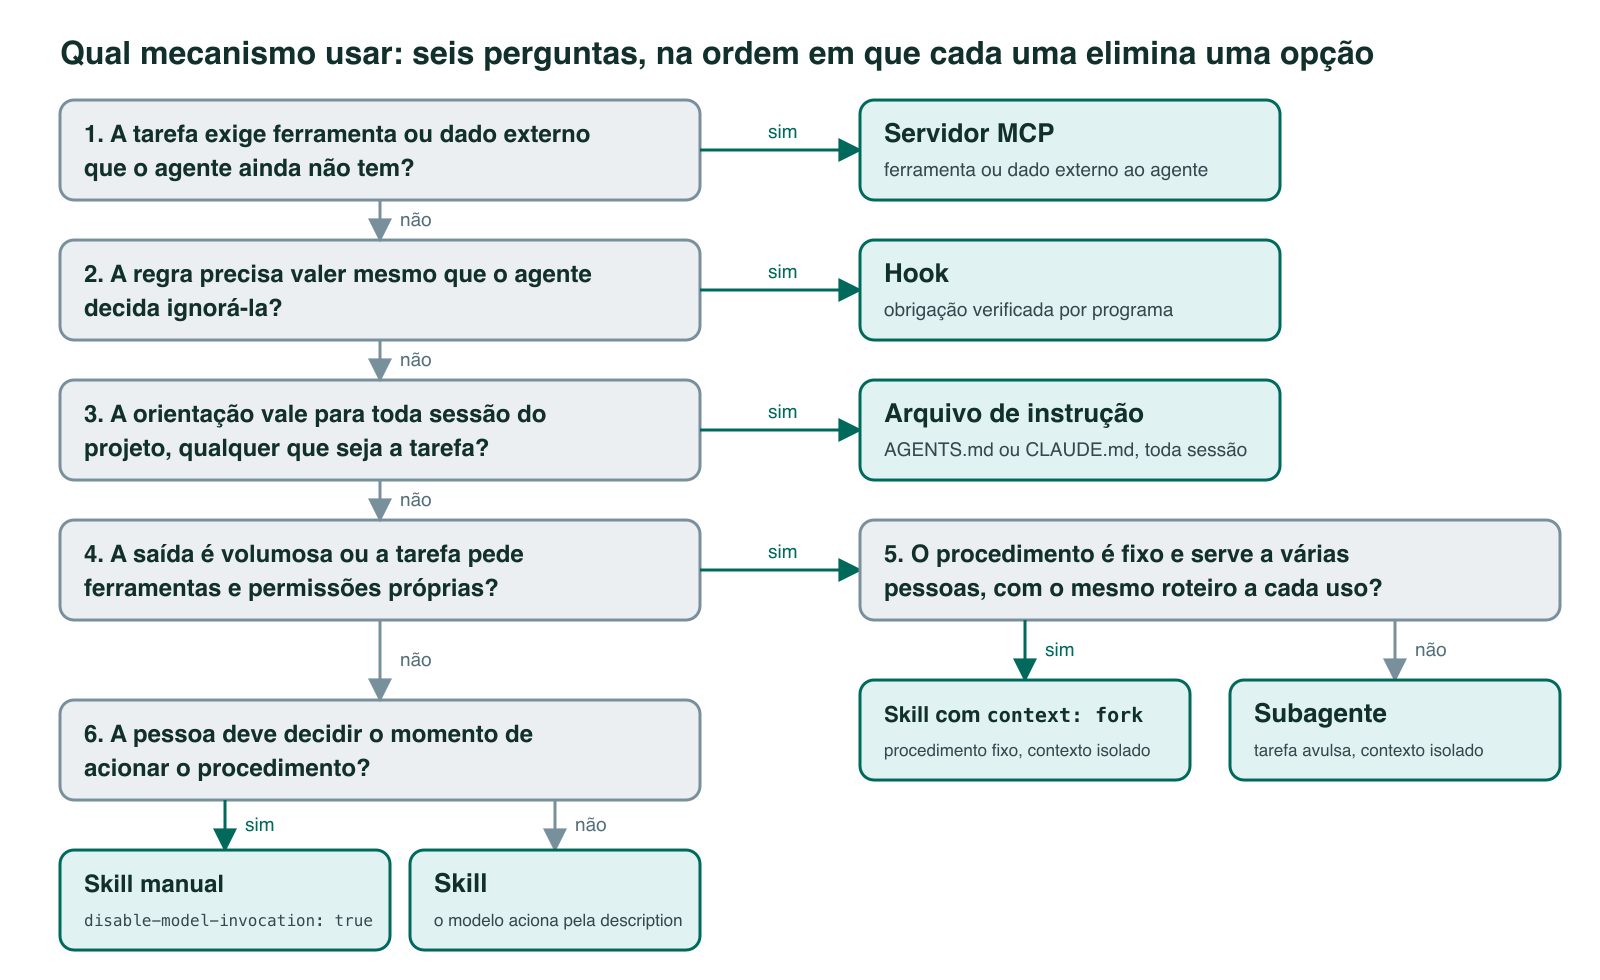
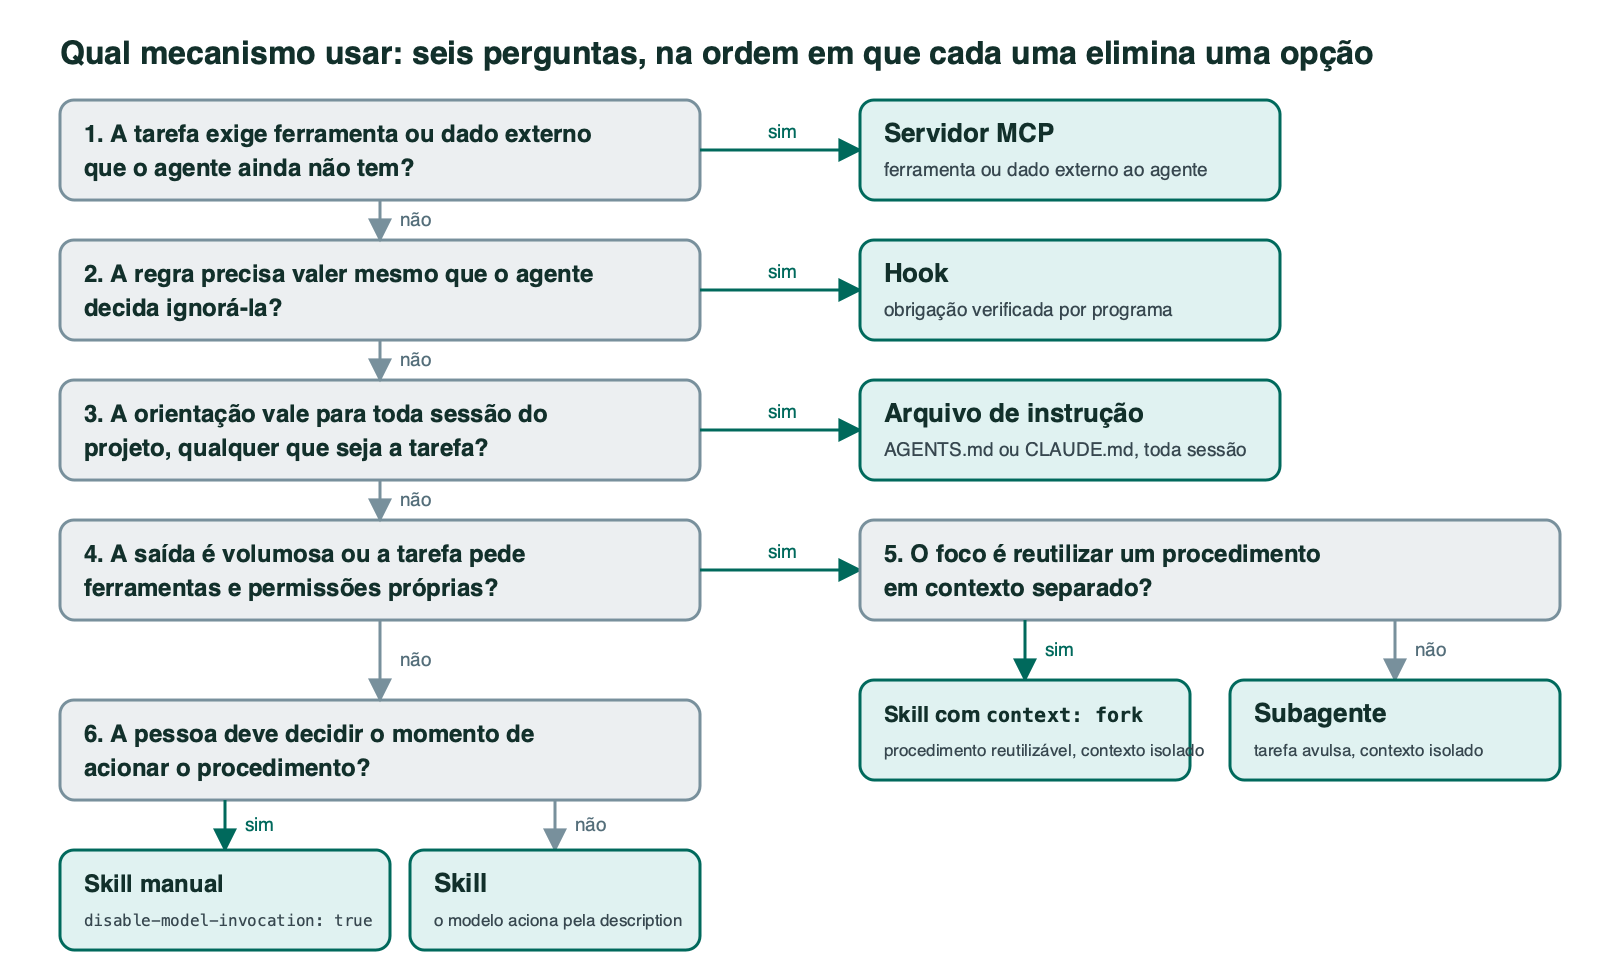
Esclarece skill com fork e subagente na sessão 8

diff --git a/docs/sessao-08-skills-e-agentes/escolher-o-mecanismo.md b/docs/sessao-08-skills-e-agentes/escolher-o-mecanismo.md
@@ -2,6 +2,56 @@
 
 Um agente de codificação oferece seis mecanismos para guardar uma instrução, um procedimento ou uma restrição: o arquivo de instrução, a skill (um procedimento reutilizável escrito em Markdown), o subagente (um agente auxiliar com janela de contexto própria), a skill executada em contexto isolado com `context: fork`, o hook e o servidor MCP. Esta página reúne os critérios da escolha, compara skill, subagente e agente principal dimensão por dimensão e lista os antipadrões. Ela preenche, na [ficha de requisitos](index.md#a-ficha-de-requisitos), a linha "Mecanismo".
 
+## Skill com fork ou subagente: qual é a diferença?
+
+Uma **skill** guarda um procedimento reutilizável: o que fazer, em que ordem e como entregar o resultado. Um **subagente personalizado** configura um especialista: seu papel, suas instruções e, quando necessário, suas ferramentas e seu modelo.
+
+A skill pode rodar na conversa principal ou em um subagente. Com `context: fork`, o Claude Code inicia um subagente em contexto separado e entrega a ele as instruções da skill. Por isso, os dois caminhos usam um subagente; a diferença é se o ponto de partida é **um procedimento a executar** ou **um especialista para receber uma tarefa**.
+
+### Exemplo: analisar uma reunião
+
+A equipe quer identificar tarefas e riscos numa transcrição. Ela cria a skill `.claude/skills/analisar-reuniao/SKILL.md`:
+
+```markdown
+---
+name: analisar-reuniao
+description: Identifica tarefas e riscos em transcrições de reunião.
+context: fork
+agent: general-purpose
+---
+Leia a transcrição indicada em $ARGUMENTS.
+Liste tarefas e riscos, cite os trechos que sustentam cada item e marque
+responsáveis ou prazos ausentes como "A confirmar".
+```
+
+A chamada `/analisar-reuniao reuniao.md` envia a receita e o caminho da transcrição ao subagente. Ele executa o procedimento em sua própria janela e devolve o resultado à conversa principal. O mesmo procedimento pode ser usado com outras transcrições.
+
+Agora a equipe quer um **revisor** que receba diferentes pedidos: conferir um relatório, verificar uma correção ou comparar versões. Ela define `.claude/agents/revisor-reuniao.md`:
+
+```markdown
+---
+name: revisor-reuniao
+description: Revisa relatórios de reunião em relação à transcrição.
+tools: Read, Grep, Glob
+---
+Você revisa relatórios de reunião. Compare os documentos indicados,
+aponte omissões e informações sem evidência e não edite arquivos.
+```
+
+A pessoa pode pedir: “Use o revisor-reuniao para comparar `relatorio.md` com `reuniao.md`”. O agente principal delega esse pedido ao revisor, que trabalha em contexto separado e devolve seus achados. Em outro pedido, o mesmo revisor pode conferir se as correções resolveram os problemas.
+
+| Pergunta | Skill com `context: fork` | Subagente personalizado |
+|---|---|---|
+| O que fica definido? | O procedimento de análise | O papel e a configuração do especialista |
+| O que recebe em cada uso? | Os dados necessários ao procedimento, como o caminho da transcrição | Uma tarefa específica, como revisar ou comparar documentos |
+| Quem executa? | Um subagente que recebe o conteúdo da skill | O subagente definido no arquivo de agente |
+| Onde executa? | Em contexto separado | Em contexto separado |
+| O que volta à conversa? | O resultado da execução | O resultado da tarefa delegada |
+
+Escolha uma **skill com fork** quando quiser repetir um procedimento e manter o trabalho intermediário fora da conversa. Escolha um **subagente personalizado** quando quiser reutilizar um especialista, com ferramentas ou modelo próprios, para diferentes tarefas. Isso é uma orientação, não uma fronteira rígida: uma skill pode deixar decisões em aberto e um subagente pode seguir passos fixos.
+
+A equipe também pode usar os dois juntos: a skill gera o relatório e o subagente revisor compara o resultado com a transcrição. Em qualquer dos casos, informe os caminhos e o contexto necessários no pedido: o subagente não recebe automaticamente o histórico da conversa. Contexto separado não garante acesso somente de leitura; para isso, configure ferramentas e permissões, como `tools: Read, Grep, Glob` no exemplo do revisor.
+
 ## A árvore de seis perguntas
 
 A escolha entre os seis mecanismos segue seis perguntas, apresentadas em ordem na figura, e cada pergunta elimina uma opção antes de a seguinte ser feita.
@@ -16,7 +66,7 @@ A tabela seguinte explica cada pergunta e o que a resposta elimina.
 | 2. A regra precisa valer mesmo que o agente decida ignorá-la? | Hook, porque a verificação ocorre na camada de execução, fora do modelo | Segue para a pergunta 3 |
 | 3. A orientação vale para toda sessão do projeto, qualquer que seja a tarefa? | Arquivo de instrução (`AGENTS.md` ou `CLAUDE.md`), carregado em toda sessão | Segue para a pergunta 4 |
 | 4. A saída é volumosa ou a tarefa pede ferramentas e permissões próprias? | Segue para a pergunta 5, porque o isolamento de um subagente se justifica | Segue para a pergunta 6, porque não há razão para isolar |
-| 5. O procedimento é fixo e serve a várias pessoas, com o mesmo roteiro a cada uso? | Skill com `context: fork` | Subagente |
+| 5. O foco é reutilizar um procedimento em contexto separado? | Comece com uma skill com `context: fork` | Considere um subagente personalizado para receber tarefas de um mesmo papel |
 | 6. A pessoa deve decidir o momento de acionar o procedimento? | Skill de acionamento manual, com `disable-model-invocation: true` | Skill acionada pelo modelo pela `description` |
 
 ### O que cada mecanismo muda

diff --git a/docs/sessao-08-skills-e-agentes/agentes-e-subagentes.md b/docs/sessao-08-skills-e-agentes/agentes-e-subagentes.md
@@ -63,7 +63,7 @@ O campo `color` mostra a diferença entre o que a documentação lista e o que a
 
 ## Contexto e isolamento
 
-Cada subagente começa com uma janela de contexto nova, sem ver o histórico da conversa nem os arquivos já lidos, e o corpo do arquivo é o prompt de sistema dele. A saída volumosa, como a de uma suíte de testes, permanece no contexto do subagente, e apenas o resumo retorna à conversa principal. A documentação aponta esse efeito como o principal benefício, e o guia de custo recomenda delegar a subagentes a execução de testes, a busca em documentação e o processamento de logs. A skill carrega o procedimento na janela principal, e a skill com `context: fork` combina o procedimento fixo com o isolamento do subagente.
+Cada subagente começa com uma janela de contexto nova, sem ver o histórico da conversa nem os arquivos já lidos, e o corpo do arquivo é o prompt de sistema dele. A saída volumosa, como a de uma suíte de testes, permanece no contexto do subagente, e apenas o resumo retorna à conversa principal. A documentação aponta esse efeito como o principal benefício, e o guia de custo recomenda delegar a subagentes a execução de testes, a busca em documentação e o processamento de logs. Uma skill comum carrega suas instruções na janela principal; com `context: fork`, suas instruções são executadas em um subagente. Para comparar os dois casos com um exemplo completo de reunião, veja [Skill com fork ou subagente: qual é a diferença?](escolher-o-mecanismo.md#skill-com-fork-ou-subagente-qual-e-a-diferenca).
 
 ![Três colunas comparam onde o trabalho acontece. Na skill, o corpo e a saída das ferramentas somam à janela principal. No subagente, uma janela própria começa vazia, recebe o corpo do arquivo como prompt de sistema e devolve só o resumo. Na skill com context fork, a janela do subagente recebe o corpo da skill como prompt, sem o histórico, e devolve só o resumo.](assets/contexto-skill-subagente-fork.png)
 
